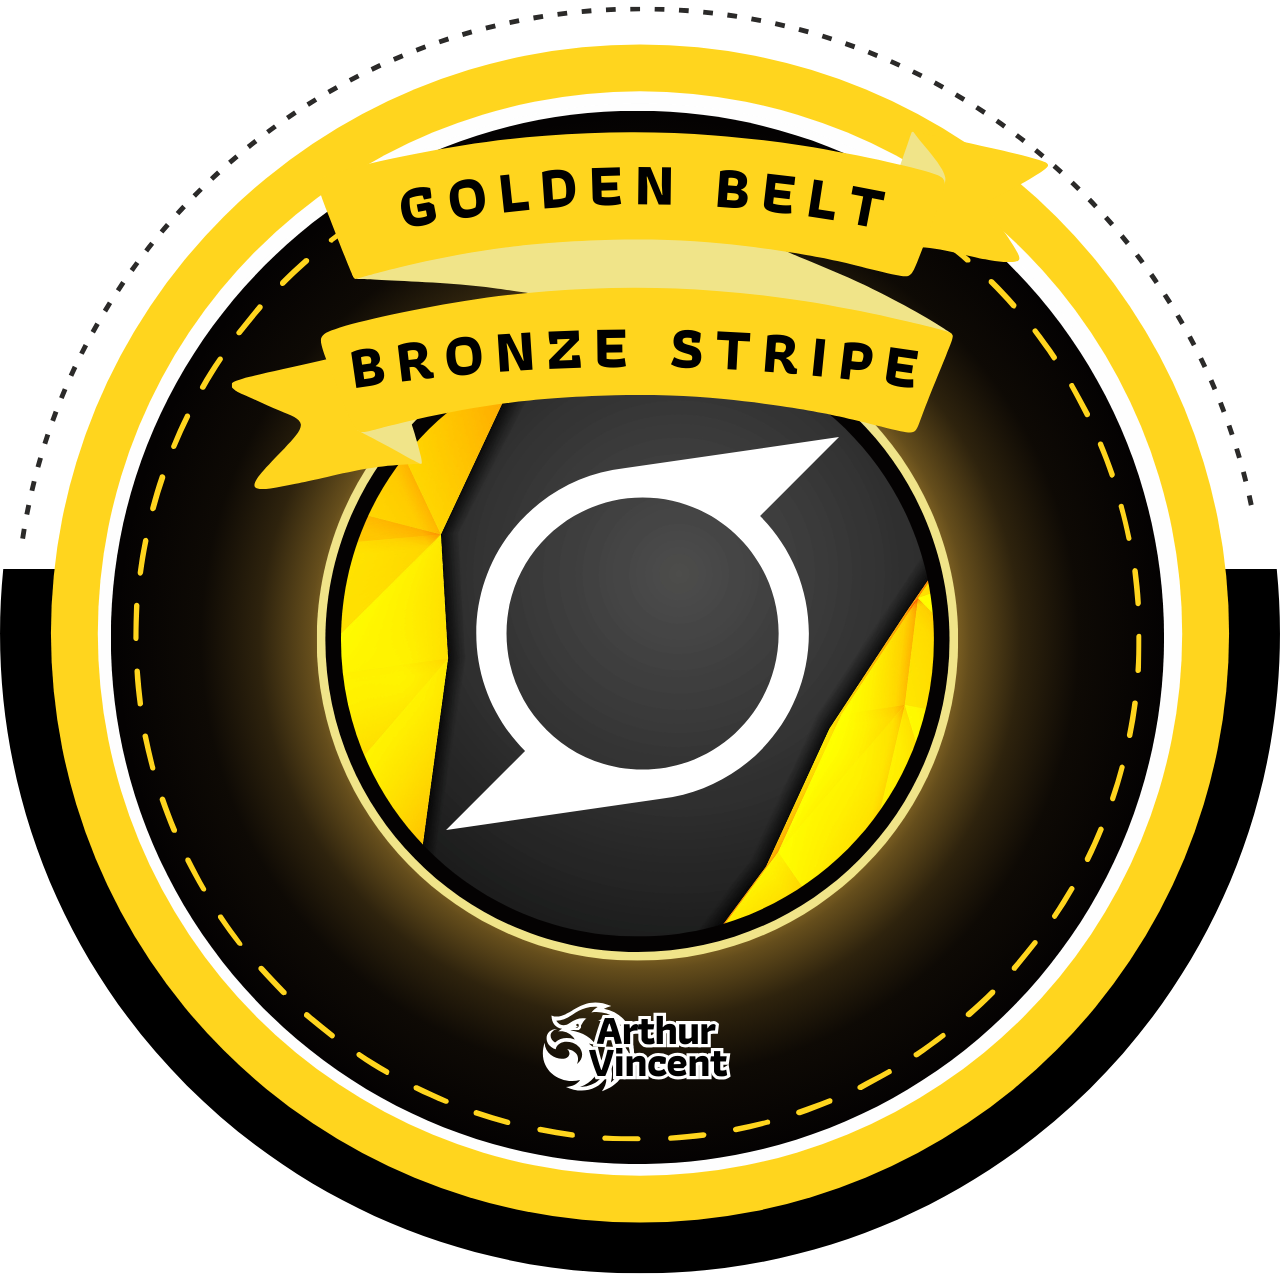
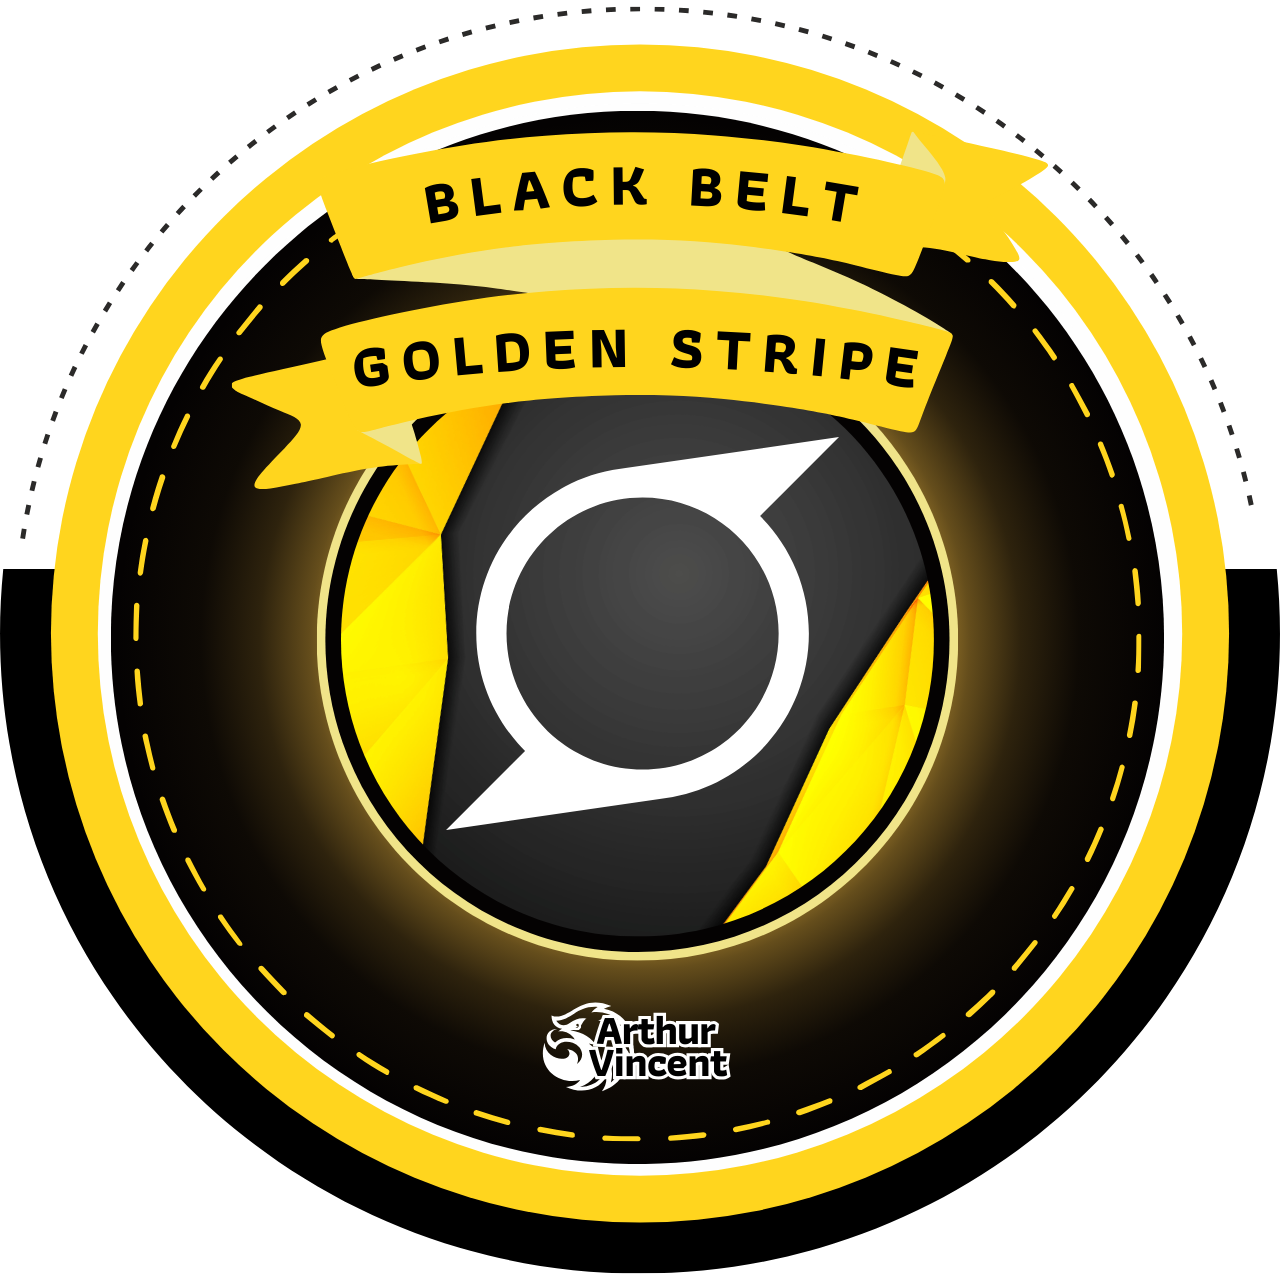
*

Changed region(s): [[0.3125, 0.125, 0.6875, 0.1875], [0.2812, 0.25, 0.5, 0.3125]]

diff --git a/src/Routes/Ranking/RankingComponents/RankingLevelsList.jsx b/src/Routes/Ranking/RankingComponents/RankingLevelsList.jsx
@@ -139,8 +139,8 @@ export const levels = () => {
     {
       level: 9,
       icon: "fa fa-superpowers",
-      color: "brown",
-      textcolor: "white",
+      color: "#F0DD9C",
+      textcolor: "black",
       text: "Black Belt Bronze Stripe" ,
       backgroundcolor: "#ddd",
       discount: "%",
@@ -167,8 +167,8 @@ export const levels = () => {
     {
       level: 11,
       icon: "fa fa-superpowers",
-      color: "yellow",
-      textcolor: "white",
+      color: "#FFFFC1",
+      textcolor: "black",
       text: "Black Belt Golden Stripe",
       backgroundcolor: "#ddd",
       discount: "%",
